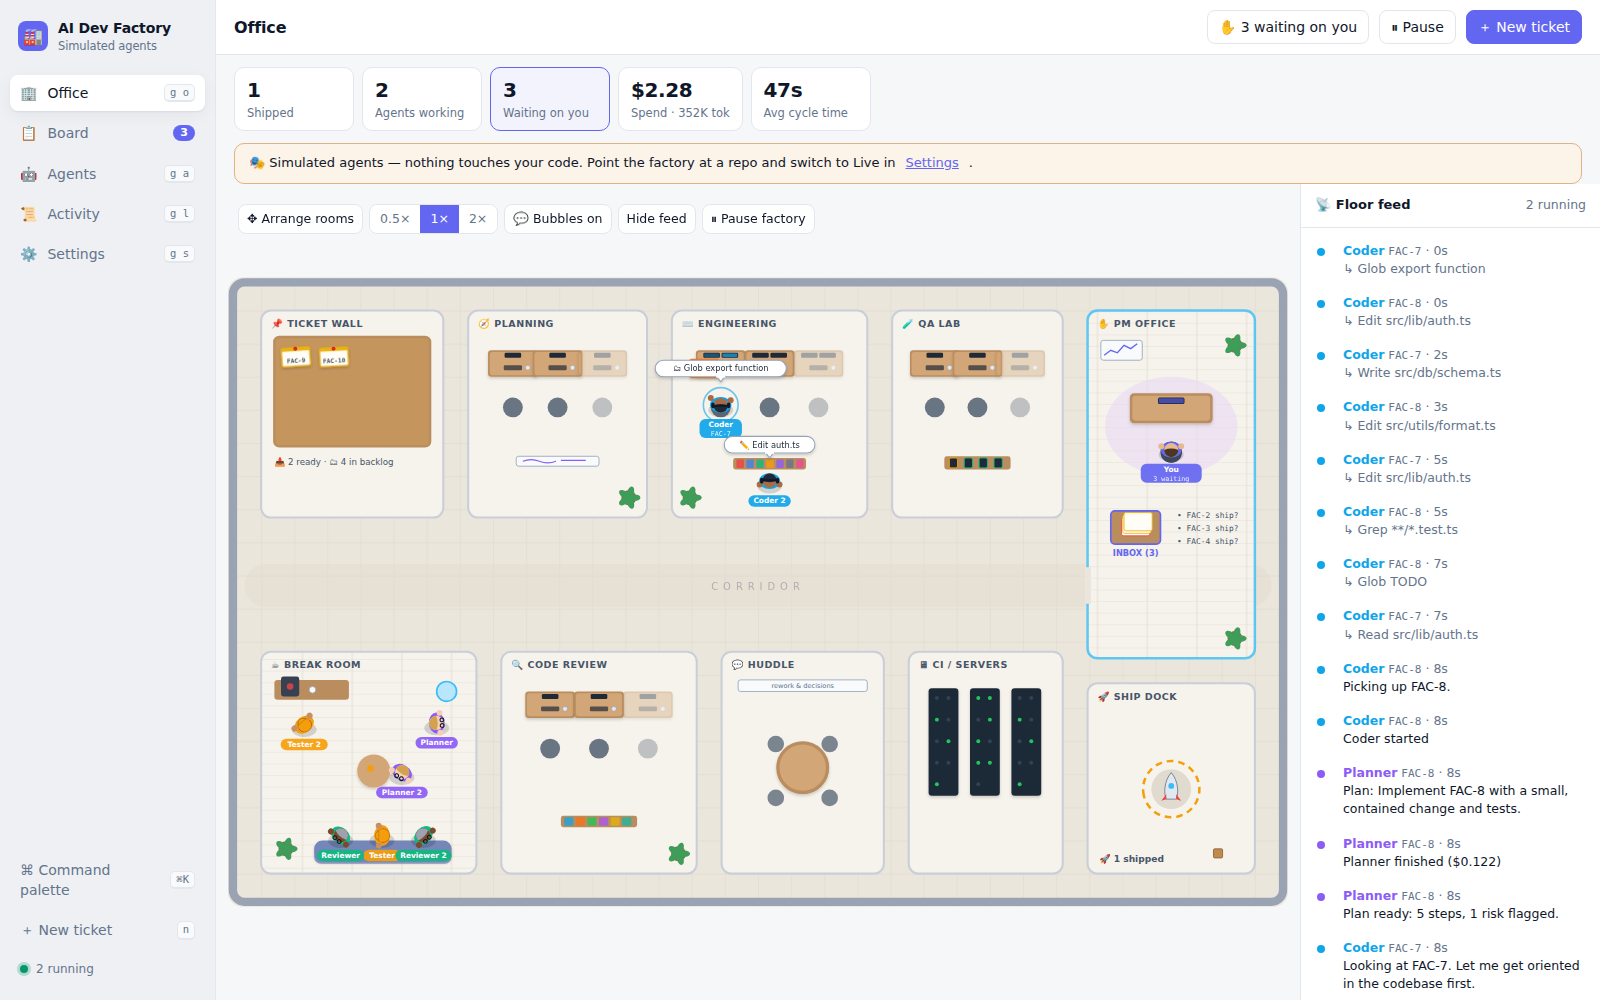
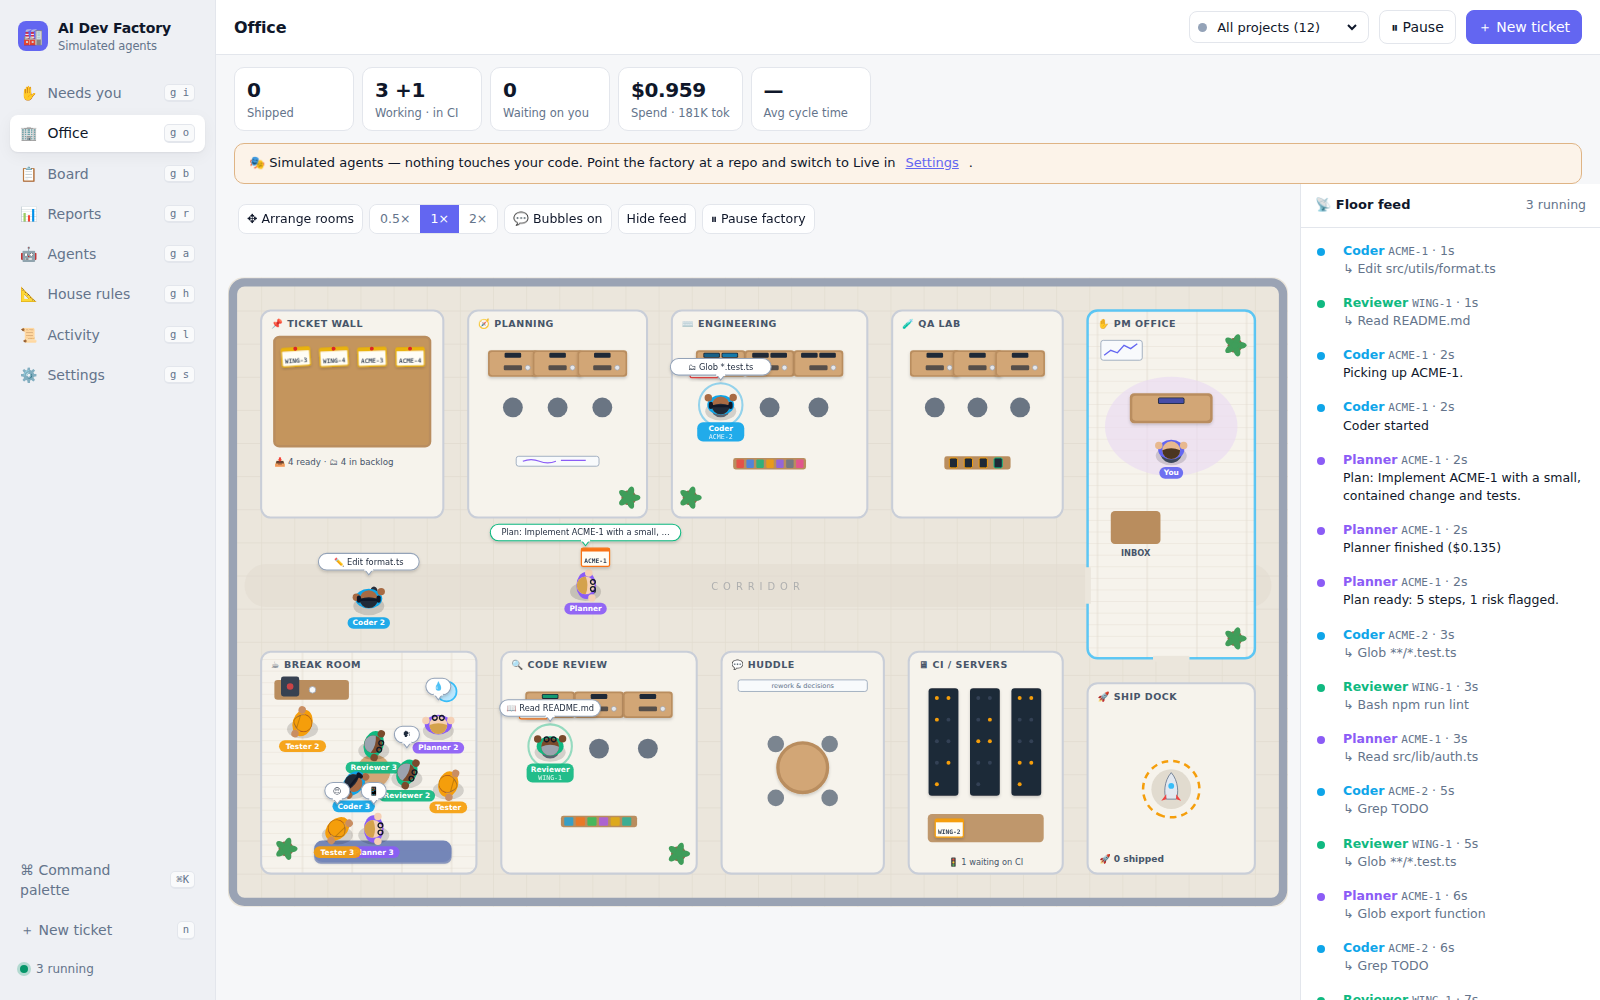
docs: refresh README summary and screenshots
- Regroup the feature list into sections (agent team, your job as PM,
  multiple projects, staying in the loop, the office, customization)
- New screenshots: inbox, walkthrough, board across two projects,
  ticket writer, code viewer, standup, house rules, projects,
  notifications; retake the office and board shots with the new UI
- Ticket writer (simulated mode): clearer titles from rough bug reports

Claude-Session: https://claude.ai/code/session_01MjAQcL3UsTbkn5cCyUHRq9

diff --git a/server/src/scoper.ts b/server/src/scoper.ts
@@ -87,10 +87,24 @@ export class Scoper {
 /** Simulated-mode stand-in: shapes the input into the same structure without calling Claude. */
 function heuristic(text: string, answers?: ScopeInput['answers']): ScopeDraft {
   const lower = text.toLowerCase();
-  const first = text.split(/(?<=[.!?])\s|\n/)[0].replace(/^(please|can we|could we|we need to|i want to|we should)\s+/i, '').trim();
-  let title = first.charAt(0).toUpperCase() + first.slice(1);
-  if (title.length > 70) title = `${title.slice(0, 67).replace(/\s+\S*$/, '')}…`;
-  title = title.replace(/[.?!]+$/, '');
+  const first = text.split(/(?<=[.!?])\s|\n/)[0]
+    .replace(/^(please|can we|could we|we need to|i want to|we should)\s+/i, '')
+    // "customers in Europe keep saying (that) the X…" → "the X…": reported speech isn't the problem itself
+    .replace(/^(?:\w+\s+){0,4}?(?:users?|customers?|people|clients?|someone|folks)\b.{0,40}?\b(?:say|says|said|saying|report|reports|reported|reporting|complain|complains|complaining|mention|mentions|noticed?)\s+(?:that\s+)?/i, '')
+    .replace(/,?\s*(?:can|could) (?:we|you) (?:fix|look at|check) (?:it|this|that)\??$/i, '')
+    .trim();
+  // keep the first clause when the sentence goes on ("…shows $ instead of €, and the email…")
+  const clause = first.length > 60 ? first.split(/,\s*(?:and|but|also)?\s*|\s+and\s+(?=the\s)/i)[0] : first;
+  let title = clause.charAt(0).toUpperCase() + clause.slice(1);
+  if (/\b(wrong|broken|doesn'?t|does not|isn'?t|fails?|instead of|missing|error)\b/i.test(lower) && !/^(fix|add|make|show|allow|support|remove|update)\b/i.test(title)) title = `Fix: ${title.charAt(0).toLowerCase()}${title.slice(1)}`;
+  if (title.length > 70) {
+    title = title.slice(0, 70).replace(/\s+\S*$/, '');
+    // don't end on a dangling word ("…when they are in a")
+    while (/\s(?:a|an|the|in|on|at|of|to|for|from|with|when|while|if|they|are|is|and|or|but|that|which)$/i.test(title)) title = title.replace(/\s+\S+$/, '');
+  }
+  title = title.replace(/^(Fix: )?the\s+/i, (_m, fix) => fix ?? '');
+  title = title.charAt(0).toUpperCase() + title.slice(1);
+  title = title.replace(/[.?!,;:]+$/, '');
   const priority: Priority = /outage|down|data loss|security|asap|urgent|crash/.test(lower) ? 'urgent'
     : /bug|broken|error|fails?|can'?t|cannot|wrong/.test(lower) ? 'high'
     : /polish|nice to have|someday|minor|typo/.test(lower) ? 'low' : 'medium';

diff --git a/README.md b/README.md
@@ -2,36 +2,75 @@
 
 A software factory where Claude agents work your tickets and you run the floor as the PM.
 
+You write or import tickets. A team of four agents (Planner, Coder, Tester, Reviewer) plans, builds, tests and reviews each one in its own branch. You only step in when they need a decision or your sign-off, and you watch it all happen in an animated office.
+
 ![The office: agents carry tickets desk to desk while you approve work from the PM office](screenshots/office-dark.png)
 
 ```
-📥 Ready → 🧭 Planner → ⌨ Coder → 🧪 Tester → 🔍 Reviewer → ✋ You → 🚀 Shipped
-                           ↑__________ rework loop __________|
+📥 Ready → 🧭 Planner → ⌨ Coder → 🧪 Tester → 🔍 Reviewer → 🚦 CI → ✋ You → 🚀 Shipped
+                           ↑______________ rework loop ______________|
 ```
 
-- **Agents**: Planner, Coder, Tester and Reviewer, each a Claude Agent SDK session running in the ticket's own **git worktree** (branch `factory/<key>-<slug>`). Every role can be turned on or off. You can edit each role's prompt, model, tools and turn limit in the UI.
-- **You're the PM**: drag tickets from Backlog into Ready to hand them to the factory. You can approve plans (optional gate), sign off on the final diff, or send work back with feedback. You can also add notes that every agent treats as top priority, stop work in progress, and pause the whole factory.
+## What's inside
+
+### The agent team
+
+- **Four agents**: Planner, Coder, Tester and Reviewer. Each is a Claude Agent SDK session running in the ticket's own **git worktree** (branch `factory/<key>-<slug>`), never in your checkout. Every role can be turned on or off, and you can edit its prompt, model, tools and turn limit.
 - **Rework loop**: failed tests or requested review changes go back to the Coder automatically. When the rework limit is hit, the ticket comes to you.
-- **Needs you inbox** ✋: everything the agents need from you is in one queue: sign-offs, plan approvals, escalations and errors. Each item comes with a brief: what we recommend, what settles it, why it's being asked now, and what happens if it waits. When a question is re-asked, the newer version replaces the old one, so you only ever see the latest.
-- **Guided review walkthrough**: the Reviewer writes setup steps plus 2–6 test cases for each change. You go through them one screen at a time, each with a "You should see…" box, and approve it or leave feedback. When every case is approved, it ships. Any feedback goes back to the Coder as one consolidated message. Your progress is saved as you go.
-- **CI-aware merge gate** 🚦: with pull requests, the factory opens the PR before your sign-off and holds the sign-off until the required checks are green. Red CI goes back to the Coder, not to you. When you approve, the PR is merged with squash, merge or rebase, whichever you pick.
-- **Watchdog** ⏰: an agent that goes quiet (for example, a hung command or a wait that never ends) is restarted with a nudge. You only hear about it if nudging doesn't work. The board is also reconciled continuously, so a ticket's stage always matches what's actually happening.
-- **Harvest time tracking** ⏱: tracks your PM time. When you open something that needs you, a timer starts on the ticket's Harvest project, and it stops when you decide. You can also log hours manually per ticket. Today's total and the running timer sit in the top bar.
-- **Projects** 📁: run several repos or clients from one factory. Each project has its own ticket prefix (`WING-12`), repo, base branch, shipping rule, live-preview command and Harvest project. Switch projects from the top bar, or view them all together.
-- **Ticket writer** ✨: type a rough idea, bug report or pasted Slack thread and the Scoper agent turns it into a ticket with a clear title, context and acceptance criteria. It asks at most a couple of questions, and you can skip them.
-- **Live preview** ▶: run your app from a ticket's own branch copy on its own port (for example `npm run dev -- --port $PORT`), so you can click through the change before signing off. Start it from the ticket drawer or the review walkthrough.
-- **Code viewer**: a Files tab in each ticket shows the changed files first with added lines highlighted, lets you browse the rest, and has **Open in VS Code** to take over by hand.
-- **Screenshots in reviews** 📸: the Tester saves screenshots, and they're attached to the matching walkthrough cases so you can see the result before trying it yourself.
-- **House rules** 📐: edit the conventions every agent follows. They're saved to the repo's `CLAUDE.md`, and feedback you keep giving on tickets is suggested as new rules.
-- **Notifications** 🔔: Mac notifications, browser notifications and Slack when something needs you, CI fails, an agent is stuck, or a ticket ships or fails. Every channel and event can be switched off, with quiet hours.
-- **Standup and weekly report** 📊: shipped, in progress, waiting on you, blocked, agent spend and Harvest hours. Copy it as Markdown, post it to Slack, or have the standup posted every weekday.
-- **Ticket sources**: a built-in board plus **GitHub Issues, Linear and Jira**. Tickets are imported into Backlog, and progress is sent back to the tracker as comments and status changes.
-- **Shipping**: when you approve, the change is merged locally, pushed as a GitHub PR, or left on the branch. You choose which in Settings.
-- **The Office** 🏢: a live, top-down animated office. Each agent is a character. They pull tickets off the Ticket Wall and carry them desk to desk on each handoff. When review or tests send work back, they meet at the Huddle table. Finished work goes to your PM inbox, and approved work launches from the Ship Dock. Speech bubbles show which tool each agent is running as it happens.
-  - Drag characters around. Idle ones stay where you drop them.
-  - Click a character to rename it or change its outfit, skin, hair and accessory.
-  - Use **Arrange rooms** to drag whole rooms into your own layout.
-- **Customizable UI**: theme, accent color, density, which board columns show, which fields cards show, header widgets, grouping, and the default view. Also includes a ⌘K command palette and keyboard shortcuts (`n` new ticket, `g i/o/b/a/l/s` to navigate, `/` to filter).
+- **Watchdog** ⏰: an agent that goes quiet (a hung command, a wait that never ends) is restarted with a nudge. You only hear about it if nudging doesn't work.
+- **CI-aware merge gate** 🚦: with pull requests, the factory opens the PR first and holds your sign-off until checks are green. Red CI goes back to the Coder, not to you. On approval the PR is merged with squash, merge or rebase.
+- **House rules** 📐: edit the conventions every agent follows. They're saved in the repo's `CLAUDE.md`, and feedback you keep giving on tickets is suggested as new rules.
+
+### Your job as PM
+
+- **Needs you inbox** ✋: every sign-off, plan approval, escalation and error in one queue. Each item says what we recommend, what settles it, why it's being asked now, and what happens if it waits.
+- **Guided review walkthrough**: the Reviewer writes setup steps and 2–6 test cases for each change. You step through them one at a time, with a "You should see…" box and the **Tester's screenshot** for each case, then approve or leave feedback. Your progress is saved as you go.
+- **Live preview** ▶: run your app from a ticket's branch copy on its own port and click through the change before you sign off.
+- **Code viewer**: a Files tab on every ticket shows the changed files first with added lines highlighted, and has **Open in VS Code** to take over by hand.
+- **Ticket writer** ✨: type a rough idea, bug report or Slack thread and the Scoper turns it into a ticket with a clear title, context and acceptance criteria. It asks at most two questions, and you can skip them.
+- **Notes and control**: add notes every agent treats as top priority, approve plans before coding (optional), stop a ticket, or pause the whole factory.
+
+### Running more than one thing
+
+- **Projects** 📁: several repos or clients in one factory. Each has its own ticket prefix (`WING-12`), repo, base branch, shipping rule, preview command and Harvest project. Switch from the top bar, or see them all together.
+- **Ticket sources**: a built-in board plus **GitHub Issues, Linear and Jira**. Imported tickets land in Backlog, and progress is sent back as comments and status changes.
+- **Shipping**: on approval, merge locally, open a GitHub PR, or leave the branch. Set per project.
+
+### Staying in the loop
+
+- **Notifications** 🔔: Mac, browser and Slack pings when something needs you, CI fails, an agent is stuck, or a ticket ships or fails. Every channel and event can be switched off, with quiet hours.
+- **Standup and weekly report** 📊: shipped, in progress, waiting on you, blocked, agent spend and Harvest hours. Copy as Markdown, post to Slack, or have the standup posted every weekday.
+- **Harvest time tracking** ⏱: a timer starts on the ticket's Harvest project when you open something that needs you and stops when you decide. You can also log hours by hand. Today's total sits in the top bar.
+
+### The Office 🏢
+
+A live, top-down animated office. Each agent is a character that pulls tickets off the Ticket Wall and carries them desk to desk. When review or tests send work back, they meet at the Huddle table. Builds wait in the CI server room, finished work goes to your PM office, and approved work launches from the Ship Dock. Speech bubbles show which tool each agent is running.
+
+- Drag characters around; idle ones stay where you drop them.
+- Click a character to rename it or change its outfit, skin, hair and accessory.
+- Use **Arrange rooms** to drag whole rooms into your own layout.
+
+### Make it yours
+
+Theme, accent color, density, board columns, card fields, header widgets, grouping and default view. There's a ⌘K command palette and keyboard shortcuts: `n` new ticket, `g` then `i/o/b/r/a/h/l/s` to navigate, `/` to filter.
+
+## Screenshots
+
+| Needs you inbox | Review walkthrough with screenshots |
+| --- | --- |
+| ![Sign-off requests with a recommendation and what happens if they wait](screenshots/inbox.png) | ![A walkthrough case with the Tester's screenshot](screenshots/walkthrough.png) |
+| **Board across two projects** | **Ticket writer** |
+| ![Kanban board with tickets from two projects](screenshots/board-light.png) | ![A rough idea turned into a ticket with acceptance criteria](screenshots/ticket-writer.png) |
+| **Code viewer** | **Daily standup** |
+| ![Files tab with the changed lines highlighted](screenshots/files.png) | ![Standup report: shipped, in progress, waiting on you](screenshots/reports.png) |
+| **House rules** | **Projects** |
+| ![Editing CLAUDE.md with suggestions from feedback](screenshots/rules.png) | ![Per-project repo, shipping and preview settings](screenshots/projects.png) |
+
+| Notifications | Hand-off to the ship dock |
+| --- | --- |
+| ![Notification channels, events and quiet hours](screenshots/notifications.png) | ![PM carries an approved ticket to the rocket](screenshots/ship-dock-launch.png) |
+
+![Agents passing tickets desk to desk](screenshots/office-handoff-sequence.png)
 
 ## Quick start
 
@@ -53,16 +92,6 @@ For development with hot reload: `npm run dev`, then open http://localhost:5173.
 
 - `EALLOWSCRIPTS` during install: your user `.npmrc` sets `allow-scripts`, which npm rejects for project installs. On macOS/Linux, run `npm run setup` instead: it clears that setting for the install, then builds and starts the app.
 - `npm install` fails with 401/E404: your npm may point at a private registry. Run `npm install --registry=https://registry.npmjs.org/`.
-
-## Screenshots
-
-| Board | Hand-off to the ship dock |
-| --- | --- |
-| ![Kanban board](screenshots/board-light.png) | ![PM carries an approved ticket to the rocket](screenshots/ship-dock-launch.png) |
-| **Review walkthrough with screenshots** | **Daily standup** |
-| ![A walkthrough case with its screenshot](screenshots/walkthrough.png) | ![Standup report](screenshots/reports.png) |
-
-![Agents passing tickets desk to desk](screenshots/office-handoff-sequence.png)
 
 ## Going live
 
